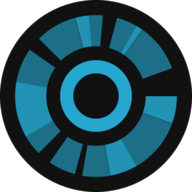
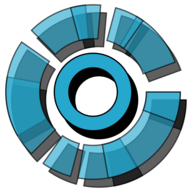
Update assets and add trailer

diff --git a/pages/index.vue b/pages/index.vue
@@ -1,78 +1,28 @@
 <template>
   <div class="container">
     <div>
-      <div class="logo">
-        <div class="logo__image">
-          <svg
-            xmlns="http://www.w3.org/2000/svg"
-            width="128"
-            height="128"
-            viewbox="0 0 128 128"
-          >
-            <path
-              style="fill:#26a7ce;fill-opacity:0.62745098;stroke:#000000;stroke-width:0.2;"
-              d="m 32.024816,8.5604366 c -4.81832,2.7791604 -9.28743,6.1936904 -13.27722,10.1834804 l 17.59226,17.5958 c 2.36499,-2.36184 5.0732,-4.46059 8.10525,-6.21114 5.11742,-2.95455 10.62681,-4.61864 16.14922,-5.09791 L 58.421866,0.24022657 C 49.053616,1.0598366 40.055346,3.9285266 32.024816,8.5604366 z M 0.97226638,52.886177 c -2.61278998,14.81787 0.0798,30.08248 7.60305002,43.11308 l 21.5542396,-12.4443 c -4.78689,-8.29117 -6.18978,-17.60393 -4.64287,-26.34712 L 0.97226638,52.886177 z M 95.998506,8.5753366 83.559176,30.126677 c 5.76004,3.31817 10.74951,8.14657 14.31227,14.31745 1.15823,2.00611 2.11617,4.07343 2.884624,6.17685 l 23.38317,-8.51266 C 118.99306,27.969267 109.02911,16.098557 95.998506,8.5753366 z m -38.7897,93.9380234 -4.32165,24.5144 c 14.81786,2.6128 30.08248,-0.08 43.11309,-7.603 L 83.555896,97.870457 c -8.29114,4.786903 -17.60389,6.189803 -26.34709,4.642903 z"
-            >
-              <animateTransform
-                attributeName="transform"
-                type="rotate"
-                from="0 64 64"
-                to="360 64 64"
-                dur="16s"
-                repeatCount="indefinite"
-              ></animateTransform>
-            </path>
-            <path
-              style="fill:#26a7ce;fill-opacity:0.62745098;stroke:#000000;stroke-width:0.2;"
-              d="m 11.577316,27.291507 c -17.8144496,25.44168 -14.7950996,60.00295 7.16661,81.964653 l 17.60402,-17.604003 c -7.07765,-7.0777 -11.45823,-16.85245 -11.45823,-27.6526 0,-8.34755 2.62061,-16.07903 7.07633,-22.43038 l -20.38873,-14.27767 z m 91.533994,36.70805 c 0,19.2838 -13.956264,35.3054 -32.319194,38.520503 l 4.31942,24.5068 C 105.69823,121.63356 128,95.058157 128,63.999557 l -24.88869,0 z"
-            >
-              <animateTransform
-                attributeName="transform"
-                type="rotate"
-                from="0 64 64"
-                to="360 64 64"
-                dur="12s"
-                repeatCount="indefinite"
-              ></animateTransform>
-            </path>
-            <path
-              style="fill:#26a7ce;fill-opacity:0.62745098;stroke:#000000;stroke-width:0.2;"
-              d="M 63.993566,4.6572144e-5 C 58.410346,3.6657214e-4 52.846586,0.73139657 47.438146,2.1805866 l 6.43745,24.0345404 c 3.22905,-0.86292 6.62381,-1.32638 10.12491,-1.32638 1.14935,0 2.28553,0.0487 3.4097,0.14583 l 2.16665,-24.79147043 c -1.85931,-0.16267 -3.72221,-0.24320999786 -5.58329,-0.243059997856 z M 80.562876,2.1805866 74.125426,26.215127 c 4.46987,1.1945 8.61797,3.16304 12.30546,5.74995 L 100.70855,11.576347 C 94.593056,7.2942366 87.774136,4.1128366 80.562876,2.1805866 z M 103.11131,63.999557 c 0,4.70185 -0.83318,9.20598 -2.35415,13.3818 l 23.38176,8.5069 C 126.69232,78.872857 128,71.465197 128,63.999557 l -24.88869,0 z m -61.541174,32.0345 -14.27767,20.388703 c 6.1155,4.2821 12.93442,7.4635 20.14568,9.3958 l 6.43745,-24.0346 c -4.46988,-1.1945 -8.61797,-3.163003 -12.30546,-5.749903 z"
-            >
-              <animateTransform
-                attributeName="transform"
-                type="rotate"
-                from="360 64 64"
-                to="0 64 64"
-                dur="8s"
-                repeatCount="indefinite"
-              ></animateTransform>
-            </path>
-            <path
-              style="fill:#26a7ce;fill-opacity:1;stroke:#000000;stroke-width:0.2;"
-              d="m 64.000506,35.555337 c -15.70931,0 -28.44421,12.73491 -28.44421,28.44422 0,15.7093 12.7349,28.4442 28.44421,28.4442 15.70931,0 28.44422,-12.7349 28.44422,-28.4442 0,-15.70931 -12.73491,-28.44422 -28.44422,-28.44422 z m 0,10.66658 c 9.81832,0 17.77764,7.95932 17.77764,17.77764 0,9.81832 -7.95932,17.7776 -17.77764,17.7776 -9.81832,0 -17.77763,-7.95928 -17.77763,-17.7776 0,-9.81832 7.95931,-17.77764 17.77763,-17.77764 z"
-            />
-          </svg>
-        </div>
-        <div>CORE</div>
-        <div>DEFENSE</div>
-      </div>
+      <img class="logo" src="/logo.svg" alt="Core Defense Logo" />
 
       <div class="about">
         <div class="about__short">A roguelike tower defense game.</div>
         <div class="about__description">
           Defeat fifty waves without losing your core. Choose a reward after
-          each wave and build your arsenal with towers, abilities, upgrades and
-          core modules.
+          each wave and build a winning combination of walls, towers, abilities,
+          upgrades and modules. Highly replayable through permadeath, randomized
+          waves and rewards and a high difficulty.
         </div>
-        <ul class="list">
-          <li>easy to learn, hard to master</li>
-          <li>endlessly replayable with random waves and rewards</li>
-          <li>one run takes about an hour</li>
-          <li>multiple difficulty levels</li>
-        </ul>
         <Follow />
-        <!-- TODO add steam / itch links -->
+      </div>
+
+      <div class="trailer">
+        <iframe
+          width="560"
+          height="315"
+          src="https://www.youtube-nocookie.com/embed/jB7aXX57a7I"
+          frameborder="0"
+          allow="accelerometer; autoplay; encrypted-media; gyroscope; picture-in-picture"
+          allowfullscreen
+        ></iframe>
       </div>
 
       <div class="screenshots">
@@ -145,18 +95,8 @@ export default {
 
 <style lang="scss">
 .logo {
-  font-size: 3em;
-  text-align: center;
-  line-height: 1em;
-  margin: 2rem 0;
-  display: block;
-  font-weight: 600;
-  color: #26a7ce;
-  &__image {
-    display: inline-block;
-    max-width: 80px;
-    margin-bottom: 0.1em;
-  }
+  max-width: 280px;
+  margin-top: 40px;
 }
 
 .about {

diff --git a/components/Follow.vue b/components/Follow.vue
@@ -31,6 +31,39 @@
         </svg>
       </a>
     </li>
+    <li>
+      <a href="https://ehmprah.itch.io/core-defense">
+        <svg
+          xmlns="http://www.w3.org/2000/svg"
+          height="235.452"
+          width="261.728"
+          viewBox="0 0 245.37069 220.73612"
+        >
+          <path
+            d="M31.99 1.365C21.287 7.72.2 31.945 0 38.298v10.516C0 62.144 12.46 73.86 23.773 73.86c13.584 0 24.902-11.258 24.903-24.62 0 13.362 10.93 24.62 24.515 24.62 13.586 0 24.165-11.258 24.165-24.62 0 13.362 11.622 24.62 25.207 24.62h.246c13.586 0 25.208-11.258 25.208-24.62 0 13.362 10.58 24.62 24.164 24.62 13.585 0 24.515-11.258 24.515-24.62 0 13.362 11.32 24.62 24.903 24.62 11.313 0 23.773-11.714 23.773-25.046V38.298c-.2-6.354-21.287-30.58-31.988-36.933C180.118.197 157.056-.005 122.685 0c-34.37.003-81.228.54-90.697 1.365zm65.194 66.217a28.025 28.025 0 0 1-4.78 6.155c-5.128 5.014-12.157 8.122-19.906 8.122a28.482 28.482 0 0 1-19.948-8.126c-1.858-1.82-3.27-3.766-4.563-6.032l-.006.004c-1.292 2.27-3.092 4.215-4.954 6.037a28.5 28.5 0 0 1-19.948 8.12c-.934 0-1.906-.258-2.692-.528-1.092 11.372-1.553 22.24-1.716 30.164l-.002.045c-.02 4.024-.04 7.333-.06 11.93.21 23.86-2.363 77.334 10.52 90.473 19.964 4.655 56.7 6.775 93.555 6.788h.006c36.854-.013 73.59-2.133 93.554-6.788 12.883-13.14 10.31-66.614 10.52-90.474-.022-4.596-.04-7.905-.06-11.93l-.003-.045c-.162-7.926-.623-18.793-1.715-30.165-.786.27-1.757.528-2.692.528a28.5 28.5 0 0 1-19.948-8.12c-1.862-1.822-3.662-3.766-4.955-6.037l-.006-.004c-1.294 2.266-2.705 4.213-4.563 6.032a28.48 28.48 0 0 1-19.947 8.125c-7.748 0-14.778-3.11-19.906-8.123a28.025 28.025 0 0 1-4.78-6.155 27.99 27.99 0 0 1-4.736 6.155 28.49 28.49 0 0 1-19.95 8.124c-.27 0-.54-.012-.81-.02h-.007c-.27.008-.54.02-.813.02a28.49 28.49 0 0 1-19.95-8.123 27.992 27.992 0 0 1-4.736-6.155zm-20.486 26.49l-.002.01h.015c8.113.017 15.32 0 24.25 9.746 7.028-.737 14.372-1.105 21.722-1.094h.006c7.35-.01 14.694.357 21.723 1.094 8.93-9.747 16.137-9.73 24.25-9.746h.014l-.002-.01c3.833 0 19.166 0 29.85 30.007L210 165.244c8.504 30.624-2.723 31.373-16.727 31.4-20.768-.773-32.267-15.855-32.267-30.935-11.496 1.884-24.907 2.826-38.318 2.827h-.006c-13.412 0-26.823-.943-38.318-2.827 0 15.08-11.5 30.162-32.267 30.935-14.004-.027-25.23-.775-16.726-31.4L46.85 124.08c10.684-30.007 26.017-30.007 29.85-30.007zm45.985 23.582v.006c-.02.02-21.863 20.08-25.79 27.215l14.304-.573v12.474c0 .584 5.74.346 11.486.08h.006c5.744.266 11.485.504 11.485-.08v-12.474l14.304.573c-3.928-7.135-25.79-27.215-25.79-27.215v-.006l-.003.002z"
+          />
+        </svg>
+      </a>
+    </li>
+    <li>
+      <a href="https://store.steampowered.com/app/1203360/Core_Defense/">
+        <svg
+          width="256px"
+          height="259px"
+          viewBox="0 0 256 259"
+          version="1.1"
+          xmlns="http://www.w3.org/2000/svg"
+          xmlns:xlink="http://www.w3.org/1999/xlink"
+          preserveAspectRatio="xMidYMid"
+        >
+          <g>
+            <path
+              d="M127.778579,0 C60.4203546,0 5.24030561,52.412282 0,119.013983 L68.7236558,147.68805 C74.5451924,143.665561 81.5845466,141.322185 89.1497766,141.322185 C89.8324924,141.322185 90.5059824,141.340637 91.1702465,141.377541 L121.735621,96.668877 L121.735621,96.0415165 C121.735621,69.1388208 143.425688,47.2457835 170.088511,47.2457835 C196.751333,47.2457835 218.441401,69.1388208 218.441401,96.0415165 C218.441401,122.944212 196.751333,144.846475 170.088511,144.846475 C169.719475,144.846475 169.359666,144.83725 168.99063,144.828024 L125.398299,176.205276 C125.425977,176.786507 125.444428,177.367738 125.444428,177.939743 C125.444428,198.144443 109.160732,214.575753 89.1497766,214.575753 C71.5836817,214.575753 56.8868387,201.917832 53.5655182,185.163615 L4.40997549,164.654462 C19.6326942,218.967277 69.0834655,258.786219 127.778579,258.786219 C198.596511,258.786219 256,200.847629 256,129.393109 C256,57.9293643 198.596511,0 127.778579,0 Z M80.3519677,196.332478 L64.6033732,189.763644 C67.389592,195.63131 72.2239585,200.539484 78.6359521,203.233444 C92.4932392,209.064206 108.472481,202.430791 114.247888,188.435116 C117.043333,181.663313 117.061785,174.190342 114.294018,167.400086 C111.526251,160.609831 106.295171,155.31417 99.5879487,152.491048 C92.9176301,149.695603 85.7767911,149.797088 79.5031858,152.186594 L95.777656,158.976849 C105.999942,163.276114 110.834309,175.122157 106.571948,185.436702 C102.318812,195.751247 90.574254,200.631743 80.3519677,196.332478 Z M202.30901,96.0424391 C202.30901,78.1165345 187.85204,63.5211763 170.092201,63.5211763 C152.323137,63.5211763 137.866167,78.1165345 137.866167,96.0424391 C137.866167,113.968344 152.323137,128.554476 170.092201,128.554476 C187.85204,128.554476 202.30901,113.968344 202.30901,96.0424391 Z M145.938821,95.9870838 C145.938821,82.4988323 156.779242,71.5661525 170.138331,71.5661525 C183.506646,71.5661525 194.347066,82.4988323 194.347066,95.9870838 C194.347066,109.475335 183.506646,120.408015 170.138331,120.408015 C156.779242,120.408015 145.938821,109.475335 145.938821,95.9870838 Z"
+            ></path>
+          </g>
+        </svg>
+      </a>
+    </li>
   </ul>
 </template>
 
